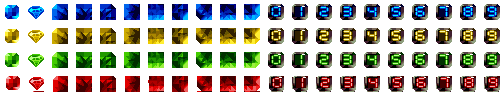
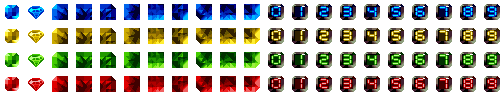
the red gem sheet is laid out a pixel over, and the check that would have caught it was looking at the wrong sheet
Every red gem in the arcade theme sat a pixel high and a pixel right in its cell - flush to
the top and to the right with a bare row underneath, which on a board reads as a red gem that
does not stand where its neighbours do.

The cause is the rip and not the cut. Matched as a silhouette against blue, `Gems.png` - the
unprefixed sheet, the one that keys on green - agrees on all 347,616 pixels at an offset of
one right and one up, and the other three agree at nothing. So it is the same art laid out
over, and it moved all twenty-one of red's cells: the plain gem, the crash gem, the nine power
masks and the ten counter digits. `SHEETS` now carries a per-sheet origin and `load` slides
the sheet back by it, so the twenty-odd coordinates below stay measured off blue and the
shifted sheet is a fact stated once. Nothing else on the sheets is out: the counter digit
frames at 499, the 2x2 power gem at 32 and the tiled body at 128 are all on the grid.

**`check` was writing the HUD.** It ran after `sheet = hud()` had rebound the name, so
`gems-check.png` was a 4x blow-up of the playfield frame and no gem was ever looked at - which
is how a whole colour shipped a pixel over. It now reads the gems sheet it just wrote and lays
the four colours out as a board: every colour beside and above every other on a checker one
square to the cell, then a 3x3 power gem per colour and the counter digit rows. A gem that is
[…]

Changed region(s): [[0.0, 0.7812, 1.0, 0.9688]]

diff --git a/rustle-fighter/art/rip.py b/rustle-fighter/art/rip.py
@@ -7,11 +7,12 @@ is the record of how the committed sheets were made; re-run it rather than hand-
 it writes.
 
     python3 rustle-fighter/art/rip.py            # cut everything
-    python3 rustle-fighter/art/rip.py check      # ... and write a contact sheet beside it
+    python3 rustle-fighter/art/rip.py check      # ... and write the alignment board beside it
 
-Four gem sheets share one geometry and differ only in their colour and in how they key their
-background: the red sheet is ``Gems.png`` and keys on green, the other three key on magenta.
-That is the one thing the reader has to handle twice.
+Four gem sheets share one geometry and differ only in their colour, in how they key their
+background and in **where the whole sheet sits**: the red sheet is ``Gems.png``, keys on green,
+and every pixel on it is one to the right and one up from where the other three put it. See
+[`SHEETS`] - that offset is what `check` exists to catch, and it was shipped once.
 
 **The power gem is synthesised, and this is the finding that made it necessary.** The plan for
 this game assumed the sheets carried per-cell power gem art that the corner codes could index.
@@ -26,7 +27,7 @@ power gem tile. The art is the arcade's; the *arrangement* into nine cells is ou
 
 import os
 import sys
-from PIL import Image
+from PIL import Image, ImageDraw
 
 RIPS = os.path.expanduser("~/Downloads/Super Puzzle Fighter Art")
 PREFIX = "Arcade - Super Puzzle Fighter 2 Turbo - "
@@ -87,14 +88,22 @@ DIGITS_PER_ROW = 5
 TILES = "Miscellaneous - Character-Specific Background Tiles.png"
 BRICK = (8, 74, 64, 32)
 
+# name, background key, and where the sheet's own grid starts.
+#
+# **The red sheet is laid out one pixel over.** Its art is the same art - matched against blue
+# as a silhouette it agrees on all 347,616 pixels - but the whole sheet is shifted right one
+# and up one. A cut on the grid the other three share therefore takes the red gem sitting a
+# pixel high and a pixel right in its cell: flush to the top and to the right, with a bare row
+# under it, which on a board is a red gem that does not stand where its neighbours do. That is
+# a rip artefact and not something the arcade draws, so it is corrected here in [`load`] rather
+# than in the twenty-odd coordinates below, all of which are measured off blue.
 SHEETS = {
-    # name, background key
-    "blue": ("Miscellaneous - Blue Gems.png", (255, 0, 255)),
-    "yellow": ("Miscellaneous - Yellow Gems.png", (255, 0, 255)),
-    "green": ("Miscellaneous - Green Gems.png", (255, 0, 255)),
-    # the red sheet is the odd one out twice over: it is the unprefixed `Gems.png` and it
-    # keys on green rather than magenta
-    "red": ("Miscellaneous - Gems.png", (0, 255, 0)),
+    "blue": ("Miscellaneous - Blue Gems.png", (255, 0, 255), (0, 0)),
+    "yellow": ("Miscellaneous - Yellow Gems.png", (255, 0, 255), (0, 0)),
+    "green": ("Miscellaneous - Green Gems.png", (255, 0, 255), (0, 0)),
+    # the red sheet is the odd one out three times over: it is the unprefixed `Gems.png`, it
+    # keys on green rather than magenta, and it is the shifted one
+    "red": ("Miscellaneous - Gems.png", (0, 255, 0), (1, -1)),
 }
 
 # the order colours are written in, which is `GemColor`'s own numbering: 1 blue, 2 yellow,
@@ -117,12 +126,16 @@ POWER_MASKS = [
 ]
 
 
-def load(name, key):
-    """One sheet, with its background key turned into real transparency.
+def load(name, key, origin=(0, 0)):
+    """One sheet, keyed to real transparency and slid onto the grid the cuts are measured on.
 
     The key is matched with a little slack rather than exactly. The red sheet is a JPEG-era
     rip and its green has a hundred-odd pixels that are a shade off, which as an exact match
     leaves a fringe of green confetti round the art.
+
+    `origin` is where that sheet's grid begins - see [`SHEETS`]. The sheet is slid back by it,
+    so everything downstream reads one set of coordinates and the shifted sheet is a fact
+    stated once rather than an offset threaded through every cut.
     """
     im = Image.open(os.path.join(RIPS, PREFIX + name)).convert("RGBA")
     px = im.load()
@@ -133,7 +146,11 @@ def load(name, key):
                 key = (r, g, b)
             if max(abs(r - key[0]), abs(g - key[1]), abs(b - key[2])) <= 24:
                 px[x, y] = (0, 0, 0, 0)
-    return im
+    if origin == (0, 0):
+        return im
+    grid = Image.new("RGBA", im.size, (0, 0, 0, 0))
+    grid.paste(im, (-origin[0], -origin[1]))
+    return grid
 
 
 def cell(sheet, at, size=BLOCK):
@@ -186,8 +203,8 @@ def gems():
     columns = 2 + len(POWER_MASKS) + 10
     sheet = Image.new("RGBA", (columns * PITCH, len(COLORS) * PITCH), (0, 0, 0, 0))
     for row, color in enumerate(COLORS):
-        name, key = SHEETS[color]
-        src = load(name, key)
+        name, key, origin = SHEETS[color]
+        src = load(name, key, origin)
         cells = [cell(src, PLAIN_ROW), cell(src, CRASH_ROW)]
         cells += power_cells(src)
         cells += [
@@ -289,6 +306,111 @@ def scene():
     return im.crop((BRICK[0], BRICK[1], BRICK[0] + BRICK[2], BRICK[1] + BRICK[3]))
 
 
+# --- the alignment board -----------------------------------------------------------------
+CHECK_OUT = os.path.normpath(os.path.join(os.path.dirname(__file__), "gems-check.png"))
+CHECK_SCALE = 6
+# the sprite columns of the written sheet, in the order `gems` writes them
+PLAIN, CRASH = 0, 1
+POWER_COLUMNS = [2 + index for index in range(len(POWER_MASKS))]
+DIGIT_COLUMNS = [2 + len(POWER_MASKS) + digit for digit in range(10)]
+
+
+def sprite(sheet, color, column):
+    """one cell off the written sheet, by the same arithmetic `theme/arcade/mod.rs` uses"""
+    x, y = column * PITCH + PAD, COLORS.index(color) * PITCH + PAD
+    return sheet.crop((x, y, x + BLOCK, y + BLOCK))
+
+
+def boxes(sheet):
+    """Where the art actually sits inside every cell of the written sheet.
+
+    The four colours are the same shapes in four palettes, so every colour's cell has to have
+    the same bounding box as blue's. A colour whose sheet is laid out a pixel over reads as a
+    whole row of cells one out, which is exactly what the red sheet did.
+
+    It is a floor and not a proof: a cell with no transparency in it - the power gem body, a
+    counter gem - boxes the same whole 16 square however far over it is cut, and the red sheet
+    tripped only six of its twenty-one cells. The board below is what shows the other fifteen.
+    """
+    out = {}
+    for color in COLORS:
+        for column in range(2 + len(POWER_MASKS) + 10):
+            art = sprite(sheet, color, column)
+            out[(color, column)] = art.getbbox()
+    return out
+
+
+def check(sheet):
+    """Draw the gems on a board, and say which cells do not sit where blue's do.
+
+    The picture is the point. A one pixel shift is invisible on a contact sheet of separated
+    cells and unmissable in a run of gems: the checker underneath is one square to the cell, so
+    a gem that is not centred in its cell shows a fat border on one side and none on the other,
+    and its neighbours' gaps go uneven.
+    """
+    bad = []
+    found = boxes(sheet)
+    for (color, column), box in found.items():
+        want = found[(COLORS[0], column)]
+        if box != want:
+            bad.append(f"    {color} cell {column}: {box}, blue has {want}")
+    print(f"{len(found)} cells, {len(bad)} out of place")
+    for line in bad:
+        print(line)
+
+    # every colour beside and above every other, so a shift shows as an uneven gap
+    def weave(column, height):
+        return [
+            [(COLORS[(x + y) % len(COLORS)], column) for x in range(12)]
+            for y in range(height)
+        ]
+
+    # the nine masks assembled, which is what a 3x3 power gem looks like in play, once per
+    # colour and side by side: a seam between two of the nine shows here and nowhere else
+    power = [
+        [
+            (color, POWER_COLUMNS[index])
+            for color in COLORS
+            for index, (_, _, my) in enumerate(POWER_MASKS)
+            if my == gy
+        ]
+        for gy in range(3)
+    ]
+
+    sections = [
+        ("plain gems", weave(PLAIN, 3)),
+        ("crash gems", weave(CRASH, 2)),
+        ("power gems, one 3x3 a colour", power),
+        ("counter gems", [[(color, column) for column in DIGIT_COLUMNS] for color in COLORS]),
+    ]
+
+    header = 13
+    width = max(len(row) for _, rows in sections for row in rows) * BLOCK
+    height = sum(header + len(rows) * BLOCK for _, rows in sections)
+    board = Image.new("RGBA", (width, height), (16, 16, 22, 255))
+    label = ImageDraw.Draw(board)
+    top = 0
+    for title, rows in sections:
+        label.text((2, top + 1), title, fill=(255, 235, 0, 255))
+        top += header
+        # a checker one square to the cell: a gem is inset a pixel all round, so a gem that is
+        # not centred in its cell shows a fat border on one side and none on the other
+        for y in range(len(rows)):
+            for x in range(width // BLOCK):
+                shade = 88 if (x + y) % 2 else 64
+                at = (x * BLOCK, top + y * BLOCK)
+                board.paste((shade, shade, shade + 12, 255), at + (at[0] + BLOCK, at[1] + BLOCK))
+        for y, row in enumerate(rows):
+            for x, (color, column) in enumerate(row):
+                board.alpha_composite(sprite(sheet, color, column), (x * BLOCK, top + y * BLOCK))
+        top += len(rows) * BLOCK
+
+    board = board.resize((board.width * CHECK_SCALE, board.height * CHECK_SCALE), Image.NEAREST)
+    board.convert("RGB").save(CHECK_OUT)
+    print(f"{CHECK_OUT}  {board.width}x{board.height}  alignment board at {CHECK_SCALE}x")
+    return not bad
+
+
 def main():
     os.makedirs(OUT, exist_ok=True)
     sheet = gems()
@@ -296,26 +418,19 @@ def main():
     sheet.save(path)
     print(f"{path}  {sheet.width}x{sheet.height}  {len(COLORS)} colours x {sheet.width // PITCH} cells")
 
-    sheet = hud()
+    hud_sheet = hud()
     for name, art in (
-        ("board.png", board_backdrop(sheet)),
-        ("background.png", panel(sheet)),
-        ("font.png", digits(sheet)),
+        ("board.png", board_backdrop(hud_sheet)),
+        ("background.png", panel(hud_sheet)),
+        ("font.png", digits(hud_sheet)),
         ("scene.png", scene()),
     ):
         path = os.path.normpath(os.path.join(OUT, name))
         art.save(path)
         print(f"{path}  {art.width}x{art.height}")
 
-    if "check" in sys.argv:
-        # the same sheet at 4x on a mid grey, which is the only way to see whether a cut
-        # landed on the art or a pixel beside it
-        big = Image.new("RGBA", sheet.size, (96, 96, 110, 255))
-        big.alpha_composite(sheet)
-        big = big.resize((sheet.width * 4, sheet.height * 4), Image.NEAREST)
-        check = os.path.normpath(os.path.join(OUT, "..", "..", "..", "art", "gems-check.png"))
-        big.save(check)
-        print(f"{check}  contact sheet at 4x")
+    if "check" in sys.argv and not check(sheet):
+        raise SystemExit("cells out of place")
 
 
 if __name__ == "__main__":

diff --git a/CLAUDE.md b/CLAUDE.md
@@ -209,8 +209,10 @@ hand-editing its output:
 * `puyo-rusto/art/sprites.py` - the procedural art the rip replaced, kept as a description of
   what the sheet must contain
 * `rustle-fighter/art/rip.py` - the arcade gems, playfield frame, panel and score face; `check`
-  writes a contact sheet. **The nine power gem masks are synthesised**, because the sheets carry
-  a tiled body texture and a border rather than per-cell art - see the script
+  lays the four colours out as a board and fails if any cell does not sit where blue's does -
+  the red sheet is a pixel over from the other three, which is a rip artefact and shipped once.
+  **The nine power gem masks are synthesised**, because the sheets carry a tiled body texture
+  and a border rather than per-cell art - see the script
 * `rustle-fighter/art/music.py` - the arcade QSound VGZ logs, rendered through Alex's
   `~/projects/vgmplay-libvgm` and split at the loop point the VGM header carries
 * `rustle-fighter/art/sfx.py` - the PlayStation port's effects; the doc comment says how each
